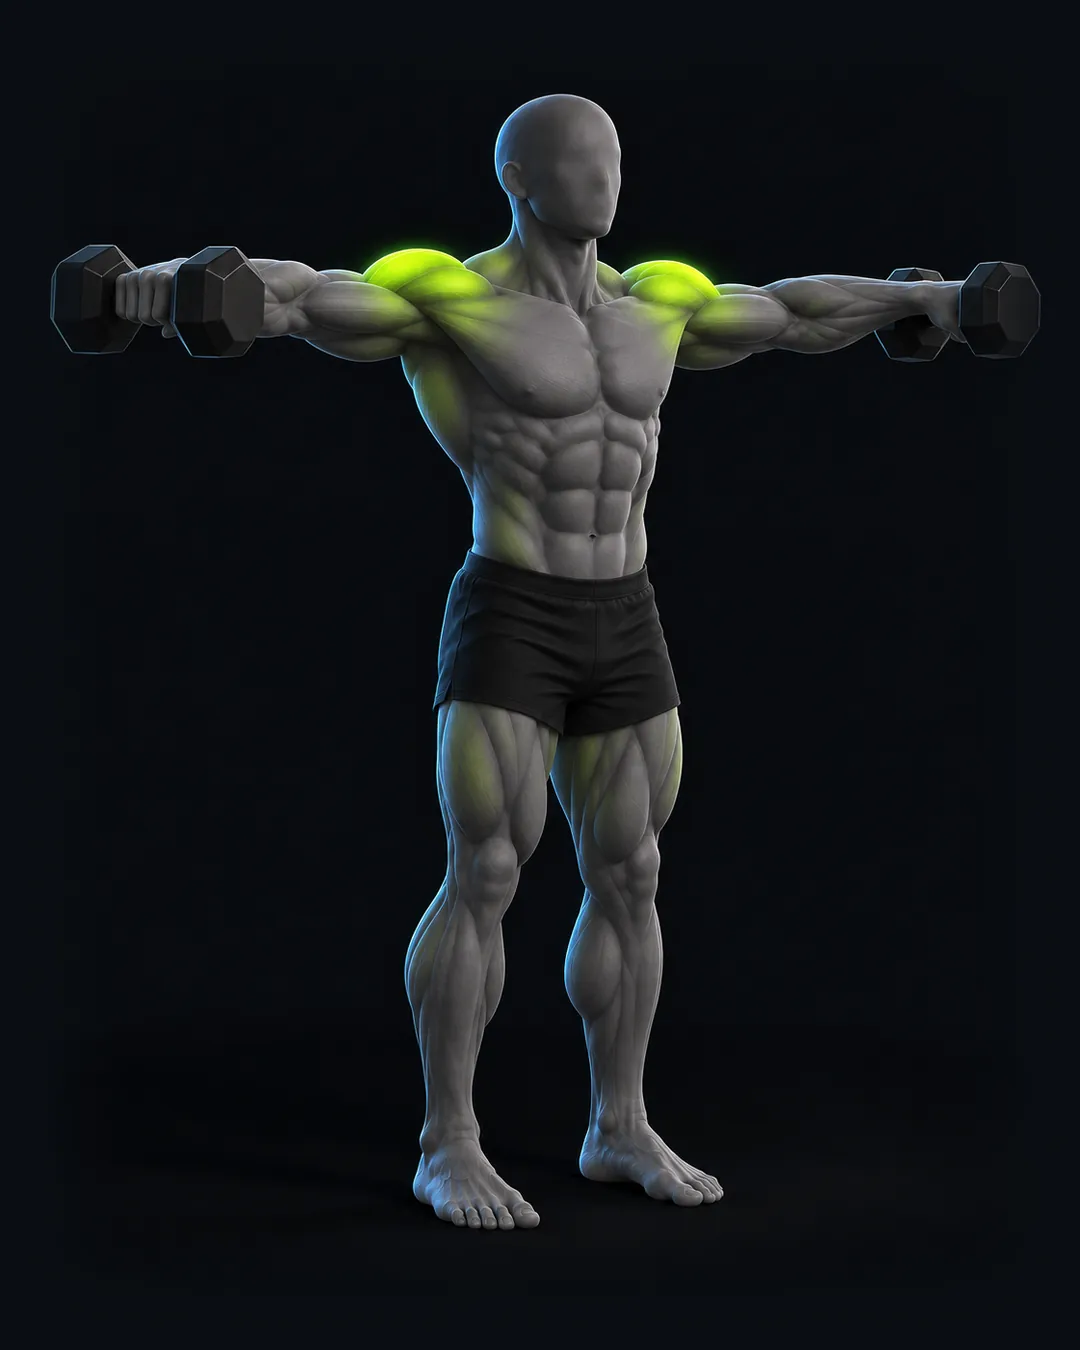
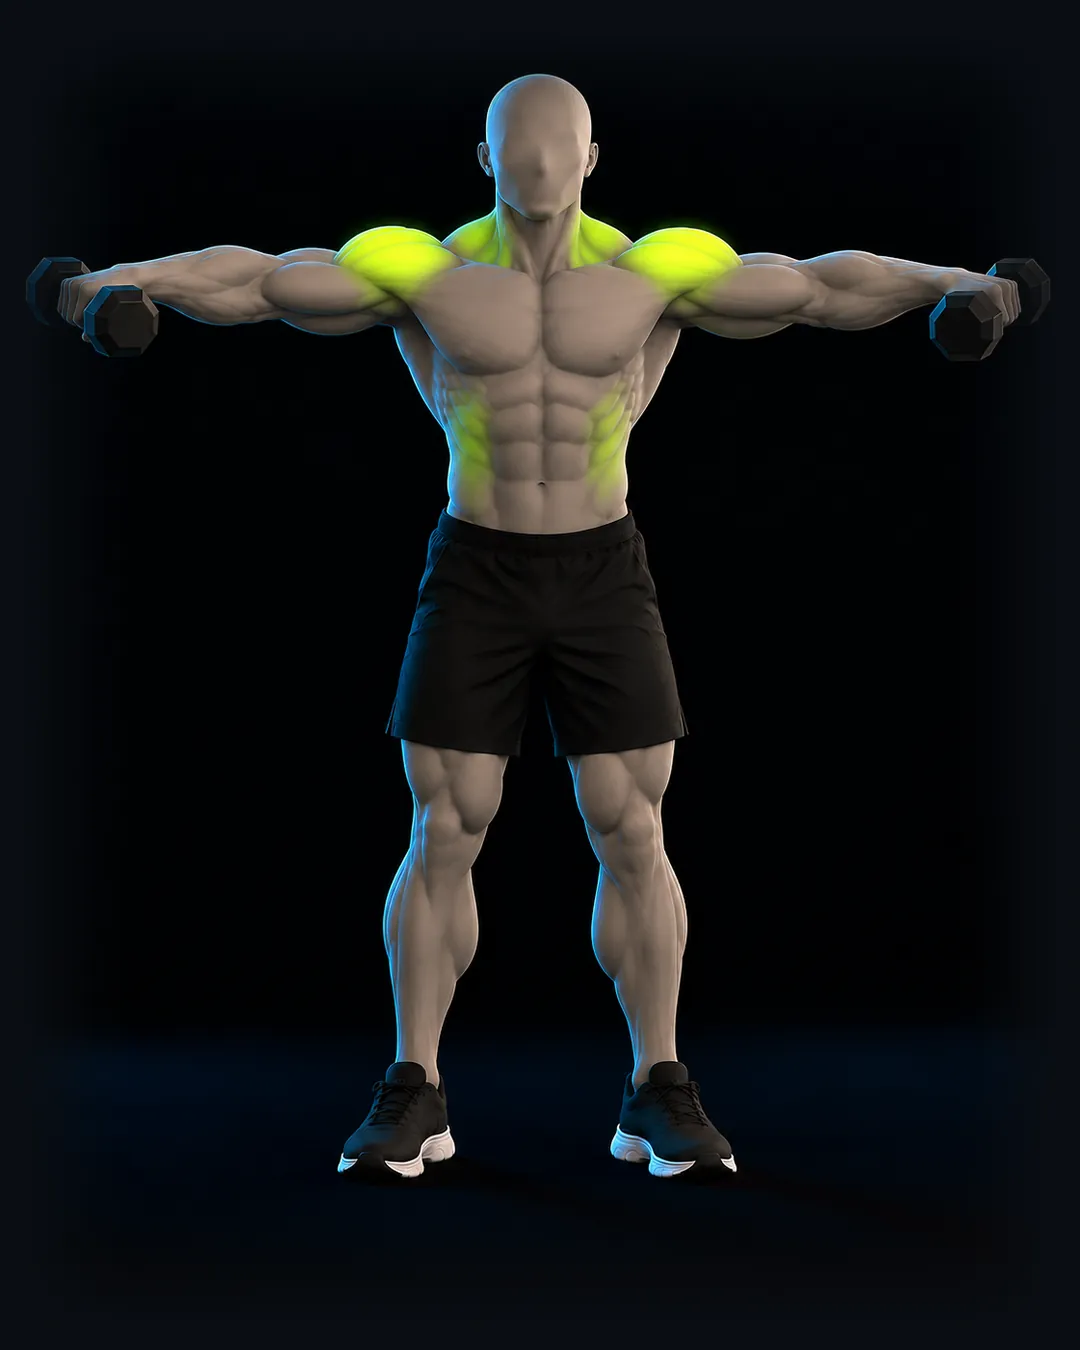
Agrega 16 imágenes de mancuernas y polea con su "Cómo se hace"
- Nuevas: curl concentrado, curl de bíceps, curl inclinado, rotación externa
  acostado, leñador en polea, aperturas inclinadas, remo al mentón, curl
  femoral en polea, pull-through, abducción en polea, crunch en polea, cruce
  de poleas de abajo hacia arriba, jalón unilateral, elevación frontal en
  polea y curl martillo con cuerda.
- Elevaciones laterales: se reemplaza la imagen anterior por la del estilo
  nuevo.
- Miniaturas de curl de bíceps, laterales y remo al mentón recortadas desde
  la cabeza.
- "Cómo se hace" (equipo, 3 pasos y error más común) de las 15 nuevas.
- Alias de la plantilla: Curl Barra Z, Curl Femoral, Curl Femoral en Máquina
  y Aperturas en Cable usan imágenes que ya existen.
- docs/IMAGENES-EJERCICIOS.md: 182 listos, 44 faltan.

Claude-Session: https://claude.ai/code/session_01TBDEA3ZRisCYr87RAhCu9n

Changed region(s): [[0.0306, 0.0311, 0.9472, 0.9333]]

diff --git a/js/38-entreno.js b/js/38-entreno.js
@@ -181,6 +181,22 @@ const EJ_PASOS = {
   'eliptica':{e:'Elíptica',p:['Sube a los pedales y toma las agarraderas móviles.','Pedalea con el torso erguido y empujando con todo el pie.','Ajusta la resistencia para mantener el ritmo de tu plan.'],x:'Recargar el peso en las agarraderas o apoyarte solo en las puntas.'},
   'zancada-con-pie-en-trx':{e:'TRX anclado a baja altura',p:['Coloca el empeine del pie de atrás en el asa del TRX y da un paso largo al frente.','Baja hasta que la rodilla de adelante quede a 90 grados con el torso erguido.','Sube empujando con el talón del pie de adelante.'],x:'Que la rodilla de adelante se vaya hacia adentro o pierdas el equilibrio por un paso muy corto.'},
   'remo-t-con-barra-landmine':{e:'Barra en soporte landmine con agarre en V',p:['Párate sobre la barra con las rodillas un poco flexionadas y el torso inclinado, espalda recta.','Jala el agarre hacia el abdomen llevando los codos atrás.','Baja lento hasta estirar los brazos.'],x:'Redondear la espalda o levantar el torso para ayudarte.'},
+  // Mancuernas y polea
+  'curl-concentrado':{e:'Una mancuerna y banca',p:['Siéntate con las piernas abiertas y apoya la parte de atrás del brazo en el muslo.','Sube la mancuerna hacia el hombro sin despegar el brazo del muslo.','Baja lento hasta casi estirar el brazo.'],x:'Mover el hombro o el torso para subir el peso.'},
+  'curl-de-biceps':{e:'Mancuernas',p:['De pie con una mancuerna en cada mano, palmas al frente y codos pegados al cuerpo.','Sube las mancuernas hacia los hombros sin mover los codos.','Baja lento hasta estirar los brazos.'],x:'Balancear el torso o adelantar los codos para subir el peso.'},
+  'curl-inclinado-con-mancuernas':{e:'Mancuernas y banca inclinada a 45 grados',p:['Recárgate en la banca con los brazos colgando y las palmas al frente.','Sube las mancuernas sin adelantar los codos.','Baja lento hasta sentir el estiramiento del bíceps.'],x:'Despegar la espalda del respaldo o adelantar los codos.'},
+  'rotacion-externa-acostado-con-mancuerna':{e:'Una mancuerna ligera y banca',p:['Acuéstate de lado con el codo de arriba doblado a 90 grados y pegado a la cintura.','Gira el antebrazo hacia arriba sin despegar el codo del cuerpo.','Baja lento; usa poco peso, es un músculo pequeño.'],x:'Despegar el codo del cuerpo o usar demasiado peso.'},
+  'lenador-en-polea':{e:'Polea alta con agarre',p:['De lado a la polea, toma el agarre con ambas manos y abre las piernas más que los hombros.','Jala en diagonal, de arriba hacia la cadera contraria, girando el torso.','Regresa controlado sin que el cable te jale.'],x:'Jalar solo con los brazos sin girar el torso.'},
+  'aperturas-inclinadas-con-mancuernas':{e:'Mancuernas y banca inclinada a 30 grados',p:['Recárgate en la banca con las mancuernas arriba del pecho y los codos un poco doblados.','Abre los brazos en arco hasta sentir el estiramiento del pecho.','Cierra como abrazando, sin estirar ni doblar más los codos.'],x:'Bajar demasiado o doblar los codos: se vuelve un press.'},
+  'remo-al-menton-agarre-ancho':{e:'Mancuernas',p:['De pie con las mancuernas al frente de los muslos y las manos más abiertas que los hombros.','Sube las mancuernas llevando los codos hacia afuera, hasta la altura del pecho.','Baja lento sin encoger los hombros.'],x:'Subir las manos más arriba del pecho o juntar los agarres: lastima el hombro.'},
+  'curl-femoral-en-polea-con-tobillera':{e:'Polea baja con tobillera',p:['Colócate la tobillera, ponte de frente a la polea y sujétate de la estructura.','Dobla la rodilla llevando el talón hacia el glúteo sin mover el muslo.','Baja lento hasta estirar la pierna.'],x:'Mover la cadera o adelantar el muslo para ayudarte.'},
+  'pull-through-en-polea':{e:'Polea baja con cuerda',p:['De espaldas a la polea, toma la cuerda entre las piernas y da dos pasos al frente.','Lleva la cadera atrás con la espalda recta hasta sentir el estiramiento del femoral.','Empuja la cadera al frente apretando los glúteos hasta quedar de pie.'],x:'Doblar mucho las rodillas o jalar con los brazos.'},
+  'abduccion-de-cadera-en-polea':{e:'Polea baja con tobillera',p:['De lado a la polea, con la tobillera en la pierna de afuera, sujétate de la estructura.','Lleva la pierna hacia afuera con la rodilla estirada y el torso derecho.','Regresa lento sin que la pierna cruce frente a la otra.'],x:'Inclinar el torso hacia el lado contrario para subir más la pierna.'},
+  'crunch-en-polea':{e:'Polea alta con cuerda',p:['Arrodíllate de frente a la polea y sujeta la cuerda a los lados de la cabeza.','Enrolla el torso llevando los codos hacia los muslos con la fuerza del abdomen.','Regresa lento sin soltar la tensión.'],x:'Sentarte sobre los talones y jalar con los brazos o la cadera.'},
+  'cruce-de-poleas-de-abajo-hacia-arriba':{e:'Dos poleas bajas',p:['Párate entre las dos poleas con un agarre en cada mano y un pie un poco adelante.','Sube las manos en arco hasta juntarlas frente al pecho, con los codos un poco doblados.','Baja lento hasta sentir el estiramiento del pecho.'],x:'Doblar los codos y jalar con los bíceps.'},
+  'jalon-unilateral-en-polea':{e:'Polea alta con agarre de una mano',p:['Arrodíllate de lado a la polea, una rodilla en el piso, y toma el agarre con el brazo estirado.','Jala llevando el codo hacia la cintura y abajo.','Regresa lento hasta estirar el brazo y sentir el dorsal.'],x:'Girar el torso o jalar con el bíceps en lugar de llevar el codo abajo.'},
+  'elevacion-frontal-en-polea':{e:'Polea baja con barra corta',p:['De espaldas o de lado a la polea, toma la barra con los brazos estirados frente a los muslos.','Sube la barra al frente hasta la altura de los hombros con los codos casi estirados.','Baja lento sin balancear el cuerpo.'],x:'Subir más arriba de los hombros o usar el impulso del cuerpo.'},
+  'curl-martillo-en-polea-con-cuerda':{e:'Polea baja con cuerda',p:['De frente a la polea, toma la cuerda con las palmas mirándose entre sí.','Sube la cuerda hacia los hombros con los codos pegados al cuerpo.','Baja lento hasta estirar los brazos.'],x:'Adelantar los codos o inclinarte hacia atrás.'},
 };
 // ── Videos en bucle del estilo nuevo (img/ejercicios/<nombre>.webm y .mp4, 4:5, sin audio).
 //    Solo se piden los que están en esta lista; los demás ejercicios usan su imagen fija.

diff --git a/js/08-rutinas-ia-fallback.js b/js/08-rutinas-ia-fallback.js
@@ -1231,7 +1231,11 @@ const EJ_ALIAS={
   'aductores-en-mariposa':'estiramiento-mariposa',
   'apertura-de-pecho-en-marco-de-puerta':'estiramiento-de-pecho-en-marco-de-puerta',
   'torsion-acostado':'rotacion-de-columna-acostado',
-  'caminata-inclinada-eliptica':'eliptica'
+  'caminata-inclinada-eliptica':'eliptica',
+  'curl-barra-z':'curl-con-barra-z',
+  'curl-femoral-en-maquina':'curl-femoral-sentado',
+  'curl-femoral':'curl-femoral-acostado',
+  'aperturas-en-cable':'cruce-de-poleas'
 };
 function slugEj(nm){ const n=slugImg(nm); return EJ_ALIAS[n]||n; }
 function basesEjercicio(ej){ const n=slugEj(ej.nm), g=slugImg(ej.ms||''), g1=g.split('-')[0]; return ['ejercicios/'+n,'grupos/'+g,'grupos/'+g1]; }

diff --git a/sw.js b/sw.js
@@ -8,7 +8,7 @@
    → Los datos de Firebase NUNCA pasan por aquí (van directo).
    → Al desplegar cambios, sube CACHE_VERSION.
    ════════════════════════════════════════════════════════ */
-const CACHE_VERSION = 'fitnesspro-v92';
+const CACHE_VERSION = 'fitnesspro-v93';
 const PRECACHE_LOCAL = [
   './',
   './index.html',

diff --git a/docs/IMAGENES-EJERCICIOS.md b/docs/IMAGENES-EJERCICIOS.md
@@ -115,9 +115,9 @@ Hay **226 ejercicios** en el catálogo:
 
 | Estado | Ejercicios | Qué significa |
 |---|---|---|
-| **Listo** | 168 | En el estilo nuevo: 3 ejercicios con imagen y video (sentadilla goblet, peso muerto rumano con mancuernas y sentadilla libre) y 165 con imagen. |
+| **Listo** | 182 | En el estilo nuevo: 3 ejercicios con imagen y video (sentadilla goblet, peso muerto rumano con mancuernas y sentadilla libre) y 179 con imagen. |
 | **Rehacer** | 0 | Ya no queda ninguna imagen del estilo anterior. |
-| **Falta** | 58 | No tienen imagen. |
+| **Falta** | 44 | No tienen imagen. |
 
 Siguiente paso: los ejercicios marcados como **Falta**, empezando por los compuestos de cada zona.
 
@@ -169,13 +169,13 @@ Siguiente paso: los ejercicios marcados como **Falta**, empezando por los compue
 | Pantorrilla a una pierna con mancuerna | `pantorrilla-a-una-pierna-con-mancuerna` | Gemelos | **Listo** (imagen) |
 | Press declinado con mancuernas | `press-declinado-con-mancuernas` | Pecho (porción baja) | **Listo** (imagen) |
 | Press en el suelo con mancuernas | `press-en-el-suelo-con-mancuernas` | Pecho mayor · Tríceps | Falta |
-| Aperturas inclinadas con mancuernas | `aperturas-inclinadas-con-mancuernas` | Pecho superior | Falta |
-| Remo al mentón agarre ancho | `remo-al-menton-agarre-ancho` | Deltoide lateral · Trapecio | Falta |
+| Aperturas inclinadas con mancuernas | `aperturas-inclinadas-con-mancuernas` | Pecho superior | **Listo** (imagen) |
+| Remo al mentón agarre ancho | `remo-al-menton-agarre-ancho` | Deltoide lateral · Trapecio | **Listo** (imagen) |
 | Aguante lateral isométrico con mancuernas | `aguante-lateral-isometrico-con-mancuernas` | Deltoide lateral | Falta |
-| Rotación externa acostado con mancuerna | `rotacion-externa-acostado-con-mancuerna` | Manguito rotador | Falta |
+| Rotación externa acostado con mancuerna | `rotacion-externa-acostado-con-mancuerna` | Manguito rotador | **Listo** (imagen) |
 | Encogimientos con mancuernas | `encogimientos-con-mancuernas` | Trapecio superior | **Listo** (imagen) |
-| Curl inclinado con mancuernas | `curl-inclinado-con-mancuernas` | Bíceps (cabeza larga) | Falta |
-| Curl concentrado | `curl-concentrado` | Bíceps | Falta |
+| Curl inclinado con mancuernas | `curl-inclinado-con-mancuernas` | Bíceps (cabeza larga) | **Listo** (imagen) |
+| Curl concentrado | `curl-concentrado` | Bíceps | **Listo** (imagen) |
 | Curl isométrico a 90° | `curl-isometrico-a-90` | Bíceps · Braquial | Falta |
 | Patada de tríceps con mancuerna | `patada-de-triceps-con-mancuerna` | Tríceps | **Listo** (imagen) |
 | Press francés con mancuernas | `press-frances-con-mancuernas` | Tríceps | **Listo** (imagen) |
@@ -304,28 +304,28 @@ Siguiente paso: los ejercicios marcados como **Falta**, empezando por los compue
 |---|---|---|---|
 | Patada de glúteo en polea | `patada-de-gluteo-en-polea` | Glúteo mayor | **Listo** (imagen) |
 | Cruce de poleas | `cruce-de-poleas` | Pecho (porción media) | **Listo** (imagen) |
-| Cruce de poleas de abajo hacia arriba | `cruce-de-poleas-de-abajo-hacia-arriba` | Pecho superior | Falta |
+| Cruce de poleas de abajo hacia arriba | `cruce-de-poleas-de-abajo-hacia-arriba` | Pecho superior | **Listo** (imagen) |
 | Cruce de poleas de arriba hacia abajo | `cruce-de-poleas-de-arriba-hacia-abajo` | Pecho inferior | **Listo** (imagen) |
 | Jalón al pecho | `jalon-al-pecho` | Dorsal ancho | **Listo** (imagen) |
-| Jalón unilateral en polea | `jalon-unilateral-en-polea` | Dorsal ancho | Falta |
+| Jalón unilateral en polea | `jalon-unilateral-en-polea` | Dorsal ancho | **Listo** (imagen) |
 | Pullover en polea alta | `pullover-en-polea-alta` | Dorsal ancho | **Listo** (imagen) |
 | Remo en polea baja | `remo-en-polea-baja` | Dorsal · Romboides | **Listo** (imagen) |
 | Face pull | `face-pull` | Deltoides posterior · Manguito | **Listo** (imagen) |
 | Elevación lateral en polea | `elevacion-lateral-en-polea` | Deltoides lateral | **Listo** (imagen) |
-| Elevación frontal en polea | `elevacion-frontal-en-polea` | Deltoides anterior | Falta |
+| Elevación frontal en polea | `elevacion-frontal-en-polea` | Deltoides anterior | **Listo** (imagen) |
 | Rotación externa en polea | `rotacion-externa-en-polea` | Manguito rotador | Falta |
 | Curl en polea baja | `curl-en-polea-baja` | Bíceps | **Listo** (imagen) |
-| Curl martillo en polea con cuerda | `curl-martillo-en-polea-con-cuerda` | Braquial | Falta |
+| Curl martillo en polea con cuerda | `curl-martillo-en-polea-con-cuerda` | Braquial | **Listo** (imagen) |
 | Extensión de tríceps en polea | `extension-de-triceps-en-polea` | Tríceps | **Listo** (imagen) |
 | Press Pallof | `press-pallof` | Core antirrotación | **Listo** (imagen) |
-| Crunch en polea | `crunch-en-polea` | Recto abdominal | Falta |
-| Abducción de cadera en polea | `abduccion-de-cadera-en-polea` | Glúteo medio | Falta |
-| Pull-through en polea | `pull-through-en-polea` | Glúteo · Femorales | Falta |
-| Curl femoral en polea con tobillera | `curl-femoral-en-polea-con-tobillera` | Femorales | Falta |
+| Crunch en polea | `crunch-en-polea` | Recto abdominal | **Listo** (imagen) |
+| Abducción de cadera en polea | `abduccion-de-cadera-en-polea` | Glúteo medio | **Listo** (imagen) |
+| Pull-through en polea | `pull-through-en-polea` | Glúteo · Femorales | **Listo** (imagen) |
+| Curl femoral en polea con tobillera | `curl-femoral-en-polea-con-tobillera` | Femorales | **Listo** (imagen) |
 | Jalón agarre neutro | `jalon-agarre-neutro` | Dorsal · Bíceps | **Listo** (imagen) |
 | Extensión de tríceps con cuerda | `extension-de-triceps-con-cuerda` | Tríceps | **Listo** (imagen) |
 | Pallof isométrico (sostén al frente) | `pallof-isometrico-sosten-al-frente` | Core · Oblicuos | **Listo** (imagen) |
-| Leñador en polea | `lenador-en-polea` | Oblicuos · Core | Falta |
+| Leñador en polea | `lenador-en-polea` | Oblicuos · Core | **Listo** (imagen) |
 
 ### Cardio
 
